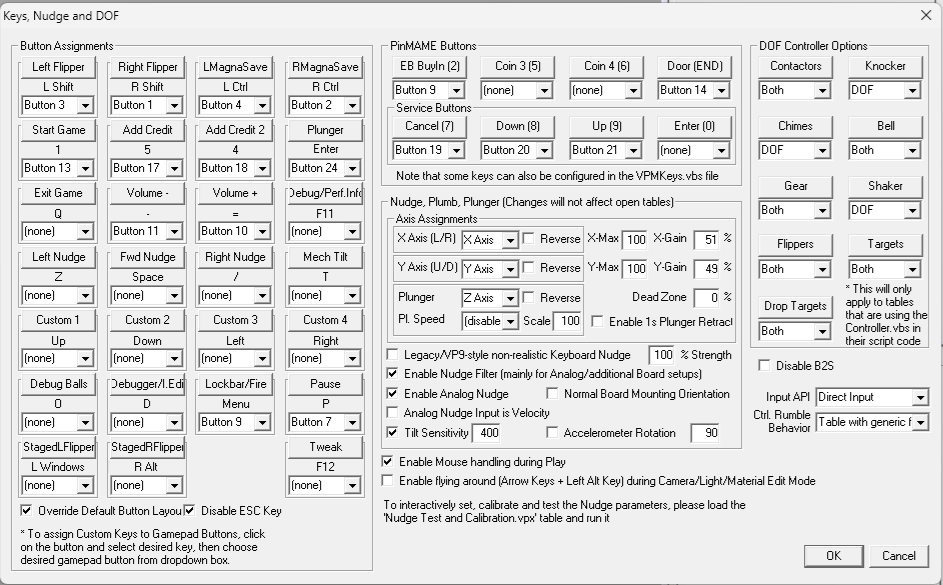
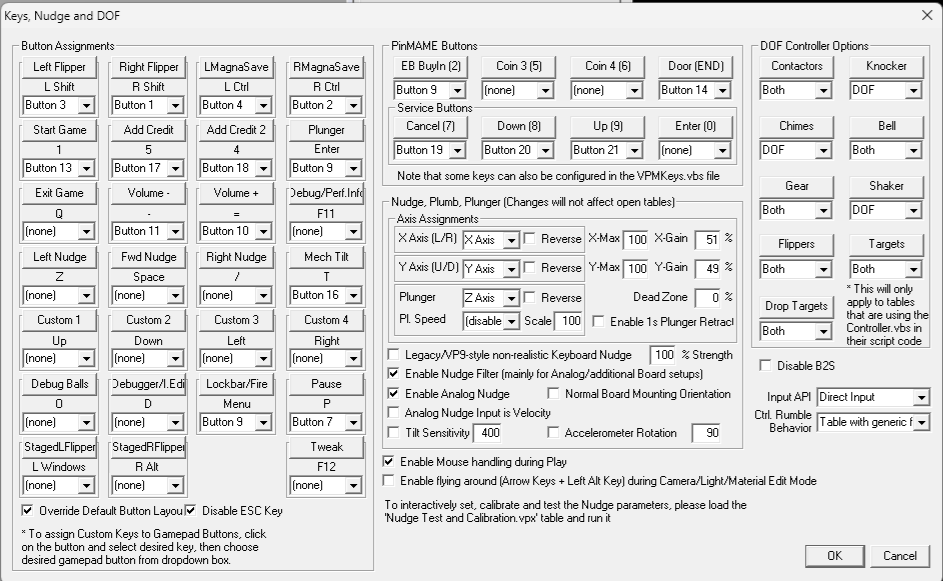
Updated docs due to CSD tilt button reconfigure.

Changed region(s): [[0.0, 0.0, 1.0, 1.0]]

diff --git a/readme.md b/readme.md
@@ -184,10 +184,10 @@ The PC ([MSI® Z370-A PRO](https://www.msi.com/Motherboard/z370-a-pro/Specificat
 
 # 6. Cabinet electronics
 
-#### [Cleveland Software Designs Virtual Pinball Builders Kit](https://www.clevelandsoftwaredesign.com/pinball-parts/p/virtual-pinball-builders-kit)
+#### [Cleveland Software Designs Virtual Pinball Builders Kit (medium/large)](https://www.clevelandsoftwaredesign.com/pinball-parts/p/virtual-pinball-builders-kit)
 ![](./images/CSD-Builders-Kit.png)
 
-As the main controller, the Cleveland Software Designs PinOne is used along with its accessories. The virtual pinball builders kit includes this controller along with its accessories.
+As the main controller, the Cleveland Software Designs PinOne is used along with its accessories. It is part of a virtual pinball builders kit.
 
 | | | |
 | :---: | :---: | :---: |
@@ -274,13 +274,15 @@ Night mode is enabled when the Night Mode button is pressed (button on the botto
 | Vol- | 11 | B11 |
 | Exit | 12 | B12 |
 | Start | 13 | B13 |
+| Coin door open | 14 | B14 |
+| Tilt | 16 | (accelerometer) |
 | Coin left | 17 | (coin door adapter) |
 | Coin right | 18 | (coin door adapter) |
 | Escape | 19 | (coin door adapter) |
 | Test mode | 20 | (coin door adapter) |
 | Function | 21 | (coin door adapter) |
 | Enter | 22 | (coin door adapter) |
-| Coin door tilt | 23 | B14 |
+| Coin door tilt | 23 | (coin door adapter) |
 | Plunger launch | 24 | (plunger) |
 
 ### CSD Button outputs config
